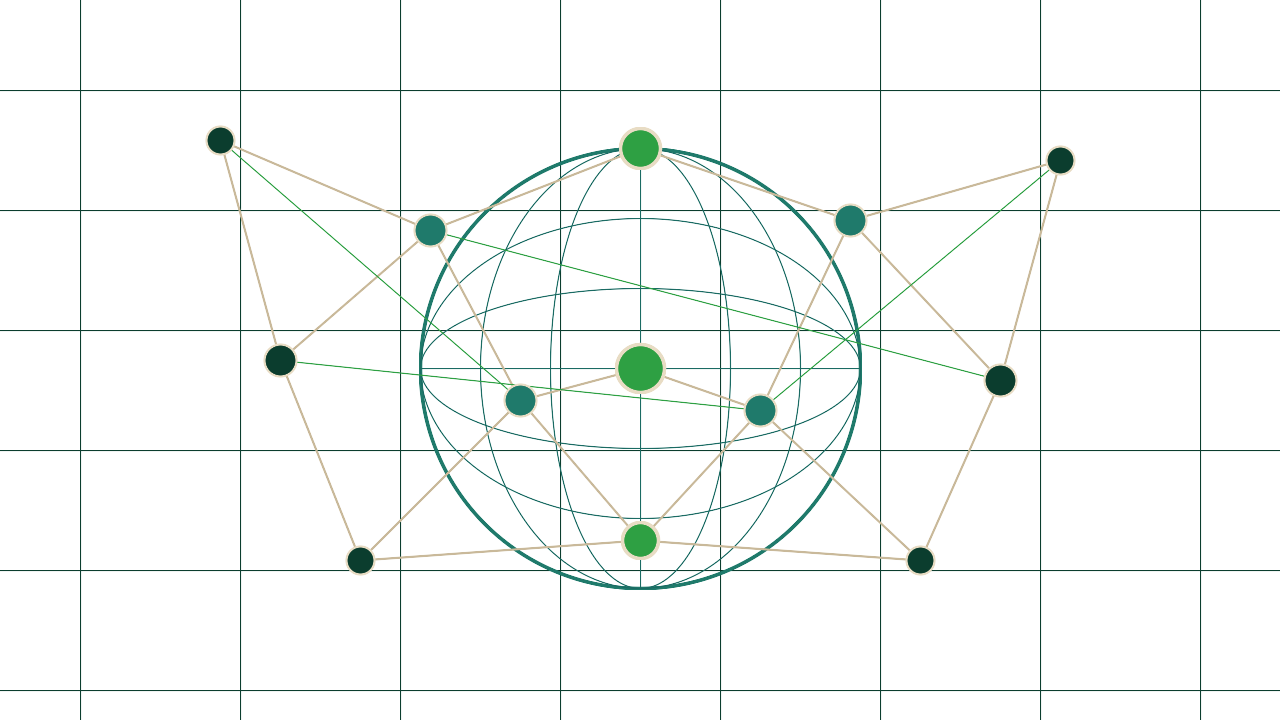
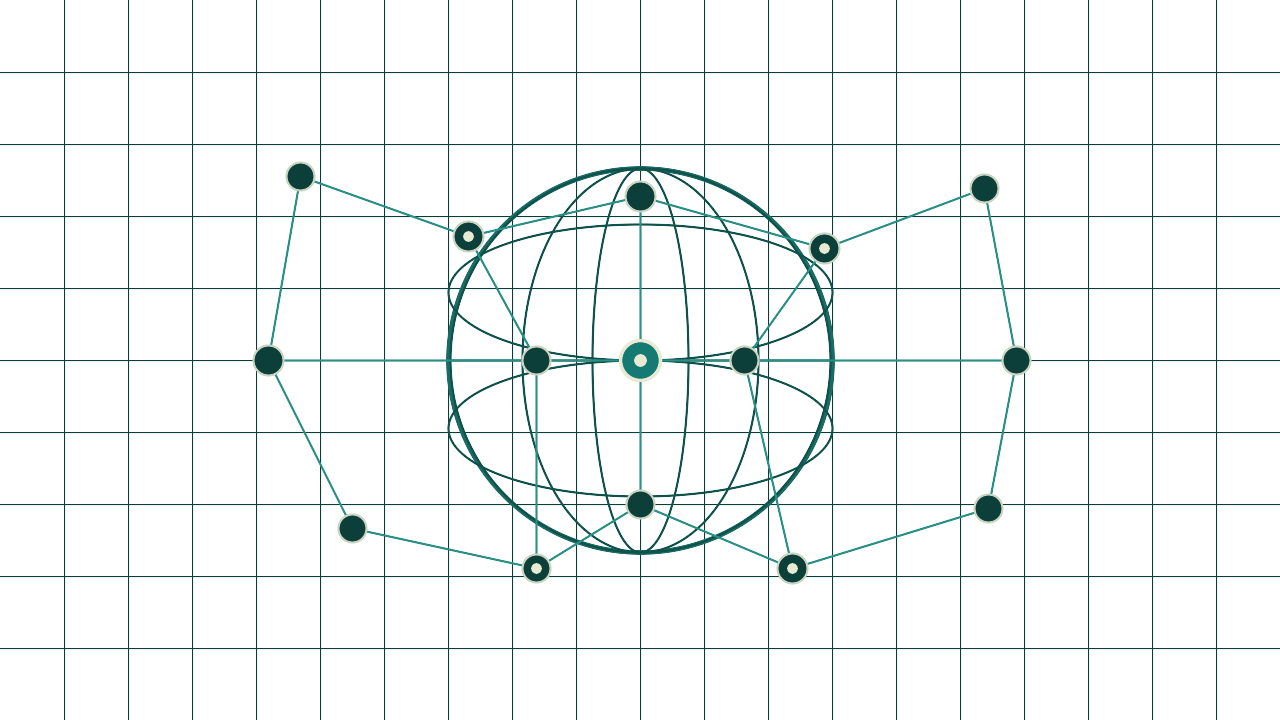
Coder: heading to GitHub World (#30)
* World image: GitHub (Author: Naomi Sato)

* Heading: Hello, GitHub World! (Author: Jonah Reyes)

---------

Changed region(s): [[0.0312, 0.1528, 0.9062, 0.825], [0.9375, 0.275, 0.9688, 0.3056]]

diff --git a/app/page.tsx b/app/page.tsx
@@ -1,8 +1,8 @@
 export default function Page() {
   return (
     <div style={{ display: "flex", flexDirection: "column", alignItems: "center", width: "100%", gap: "1rem" }}>
-      <h1 className="page-title" style={{ whiteSpace: "nowrap" }}>Hello, Playwright World!</h1>
-      <img className="world-image" src="/worlds/playwright.png" alt="Playwright world" width={480} height={270} style={{ width: 480, maxWidth: "90vw", height: "auto", margin: 0, borderRadius: 12 }} />
+      <h1 className="page-title" style={{ whiteSpace: "nowrap" }}>Hello, GitHub World!</h1>
+      <img className="world-image" src="/worlds/github.png" alt="GitHub world" width={480} height={270} style={{ width: 480, maxWidth: "90vw", height: "auto", margin: 0, borderRadius: 12 }} />
     </div>
   );
 }
